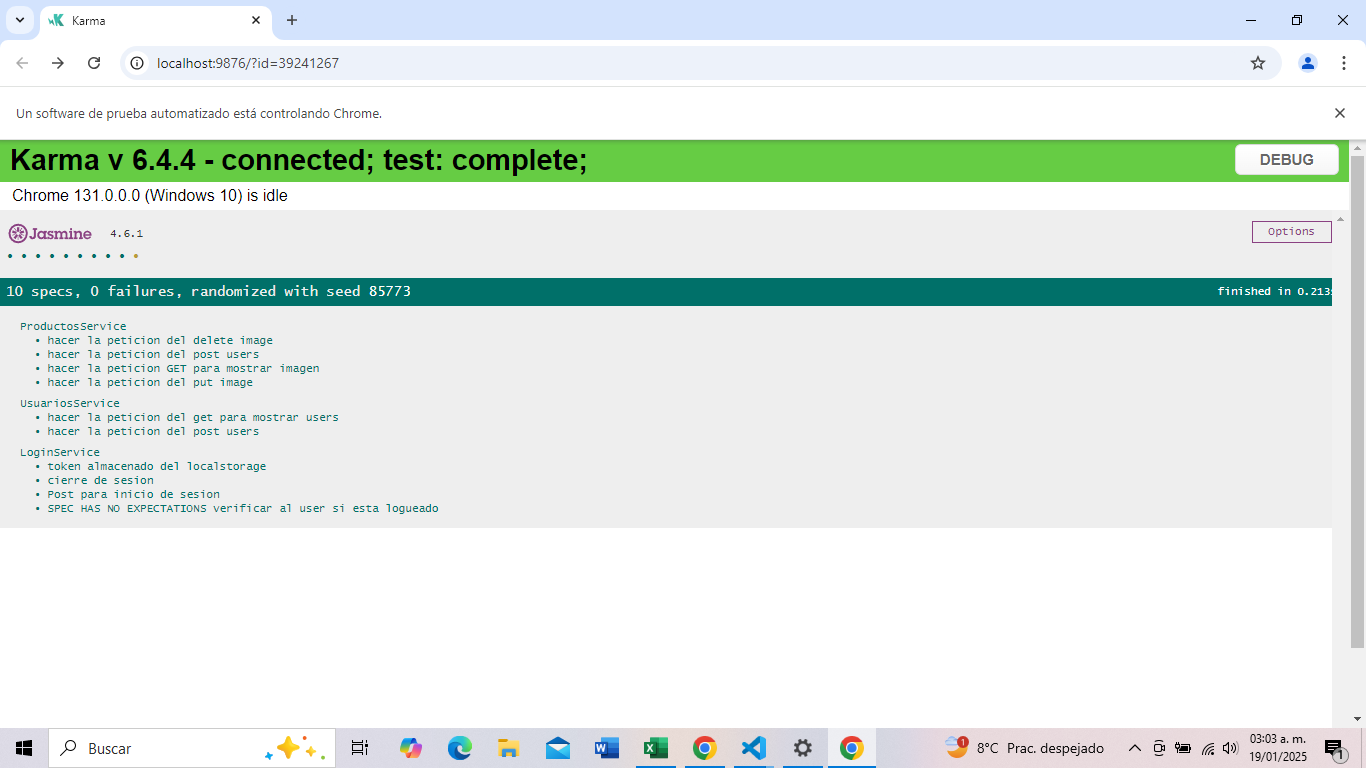
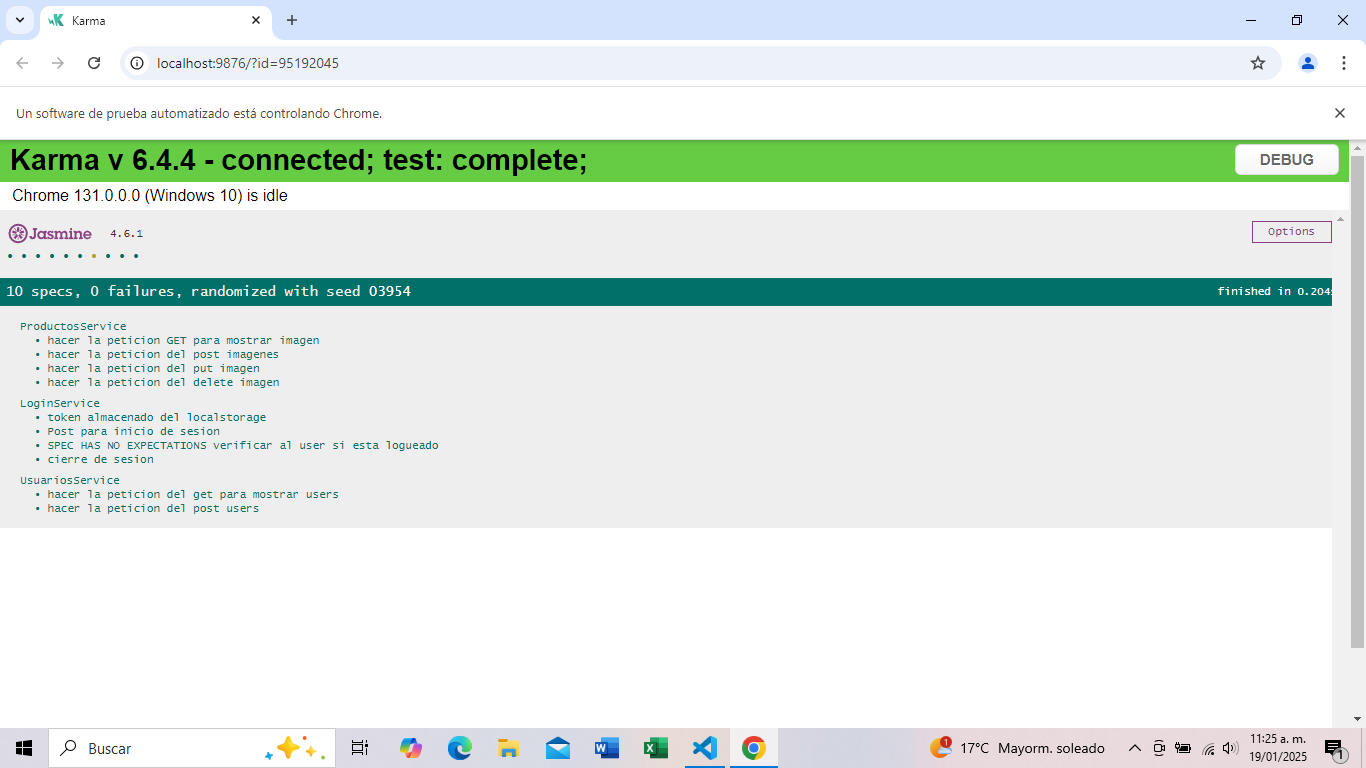
final

diff --git a/src/app/services/productos.service.spec.ts b/src/app/services/productos.service.spec.ts
@@ -80,7 +80,7 @@ describe('ProductosService', () => {
 
 
 
-it('hacer la peticion del post users' , ()=>{
+it('hacer la peticion del post imagenes' , ()=>{
   const mockimagenes ={
     image: 'pueba generica',
     name: 'no c',
@@ -90,7 +90,7 @@ it('hacer la peticion del post users' , ()=>{
 }
   
   const mockResponse = {
-    mensaje: 'Se creó el usuario correctamente',
+    mensaje: 'Se creó la imagen correctamente',
     numeroUsuarios: mockimagenes,
     datos: mockimagenes
   }
@@ -121,7 +121,7 @@ it('hacer la peticion del post users' , ()=>{
 
 
 
-it('hacer la peticion del put image' , ()=>{
+it('hacer la peticion del put imagen' , ()=>{
 
   const MockId: string = '123';
   const actualizarUrl = `http://localhost:9000/imagenes/actualizar/:id/${MockId}`;
@@ -135,7 +135,7 @@ const mockimagenes ={
 }
 
 const mockResponse = {
-  mensaje: 'Se creó el usuario correctamente',
+  mensaje: 'Se actualizo la imagen correctamente',
   IdUsado: MockId,//borre el length, ya que este Id es un objeto, por lo que no es necesario su uso
   datos: {
     // Aquí deberían ir los datos actualizados del producto
@@ -180,7 +180,7 @@ req.flush(mockResponse);
 
 
 
-it('hacer la peticion del delete image' , ()=>{
+it('hacer la peticion del delete imagen' , ()=>{
 
   const MockId: string = '123';
   const eliminarUrl = `http://localhost:9000/imagenes/eliminar/:id/${MockId}`;
@@ -194,7 +194,7 @@ const mockimagenes ={
 }
 
 const mockResponse = {
-  mensaje: 'Se creó el usuario correctamente',
+  mensaje: 'Se elimino la imagen correctamente',
   IdUsado: MockId,//borre el length, ya que este Id es un objeto, por lo que no es necesario su uso
   datos: { id: MockId,
 }
